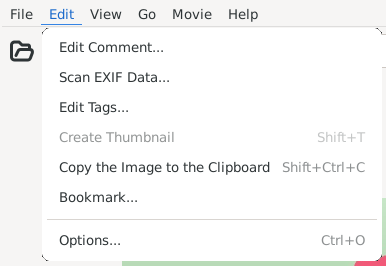
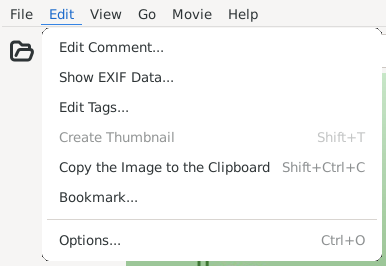
"Show EXIF Data..." for "Scan EXIF Data..."
The item shows the EXIF data of the image; "Scan" reads as a search.
The mnemonic stays X.  The translations, the help and its screenshots
follow.

Changed region(s): [[0.3109, 0.2707, 1.0, 1.0], [0.1554, 0.2707, 0.4352, 0.3308]]

diff --git a/doc/en/gimv_history.html b/doc/en/gimv_history.html
@@ -60,8 +60,9 @@
       for as the tags put by hand of the same name.
     o With gexiv2 (Exiv2) the index reads EXIF, XMP and IPTC of HEIF, PNG,
       WebP, TIFF, raw files, ... (the date, the camera, the keywords).
-    o With gexiv2 the EXIF of the formats other than JPEG too: Scan EXIF
+    o With gexiv2 the EXIF of the formats other than JPEG too: Show EXIF
       Data... shows it, images and thumbnails are turned by its orientation.
+    o "Scan EXIF Data..." is now "Show EXIF Data...".
     o Data tab: "Remove Item" for the item selected; "Delete Comment..."
       asks first and keeps the tags.  The index follows a comment saved
       or deleted at once.

diff --git a/doc/en/05.html b/doc/en/05.html
@@ -102,7 +102,7 @@ Shows the properties of the file.  The permissions and the owner of the file can
 Puts the full paths of the images selected on the clipboard (one a line).
 </p>
 </dd>
-<dt><span class="term"><a name="scan_exif"></a>Scan EXIF Data...</span></dt>
+<dt><span class="term"><a name="scan_exif"></a>Show EXIF Data...</span></dt>
 <dd>
 <p class="para">
 Exists when built with EXIF support.  Shows the EXIF data of the image.  Built with gexiv2 (Exiv2), the EXIF data of the formats other than JPEG (TIFF, raw files, PNG, WebP, HEIF, ...) too (without it, JPEG only, and the item is not there for the other formats).

diff --git a/doc/en/03.html b/doc/en/03.html
@@ -204,7 +204,7 @@ This cannot be undone.  Answer the confirmation dialog carefully.
 <span class="emphasis"><i>Image window only</i></span>.  Edits the comment of the image shown.
 </p>
 </dd>
-<dt><span class="term"><a name="scan_exif"></a>Scan EXIF Data...</span></dt>
+<dt><span class="term"><a name="scan_exif"></a>Show EXIF Data...</span></dt>
 <dd>
 <p class="para">
 <span class="emphasis"><i>Image window only</i></span>.  Shows the EXIF data of the image shown; built with gexiv2 (Exiv2), of the formats other than JPEG too.

diff --git a/src/gimv_thumb_view.c b/src/gimv_thumb_view.c
@@ -238,7 +238,7 @@ static GimvMenuEntry thumb_button_popup_items [] =
    {N_("/_Properties..."),              NULL,  cb_file_property, 0,           NULL},
    {N_("/Copy P_ath"),                NULL,  cb_copy_path,     0,           NULL},
 #ifdef ENABLE_EXIF
-   {N_("/Scan E_XIF Data..."),        NULL,  cb_exif,          0,           NULL},
+   {N_("/Show E_XIF Data..."),        NULL,  cb_exif,          0,           NULL},
 #endif
    {N_("/_Edit Comment..."),          NULL,  cb_edit_comment,  0,           NULL},
 #ifdef ENABLE_INDEX
@@ -2950,7 +2950,7 @@ gimv_thumb_view_popup_menu (GimvThumbView *tv, GimvThumb *thumb,
    {
       const gchar *img_name = gimv_image_info_get_path (thumb->info);
       const gchar *format = gimv_image_detect_type_by_ext (img_name);
-      menuitem = gimv_menu_get_item (ifactory, "/Scan EXIF Data...");
+      menuitem = gimv_menu_get_item (ifactory, "/Show EXIF Data...");
 #ifndef ENABLE_GEXIV2
       /* libexif reads the EXIF data of a JPEG only; with Exiv2 any format
        * (gimv_exif_data_new_from_file ()) */

diff --git a/src/gimv_image_win.c b/src/gimv_image_win.c
@@ -314,7 +314,7 @@ GimvMenuEntry gimv_image_win_menu_items[] =
 
    {N_("/_Edit"),                        NULL,         NULL,              0,  "<Branch>"},
    {N_("/_Edit/Edit _Comment..."),       NULL,         cb_edit_comment,   0,  NULL},
-   {N_("/_Edit/Scan E_XIF Data..."),       NULL,       cb_exif,           0,  NULL},
+   {N_("/_Edit/Show E_XIF Data..."),       NULL,       cb_exif,           0,  NULL},
 #ifdef ENABLE_INDEX
    {N_("/_Edit/Edit Ta_gs..."),          NULL,         cb_edit_tags,      0,  NULL},
 #endif
